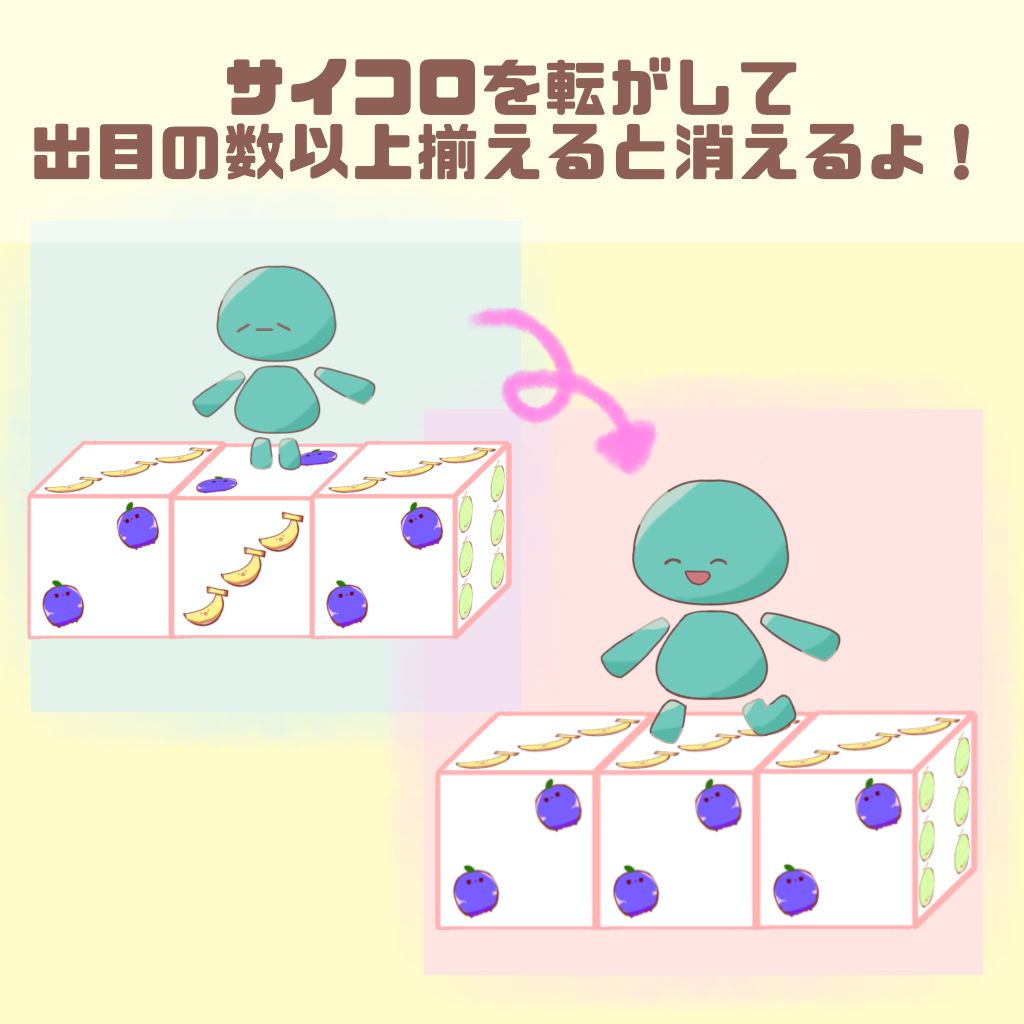
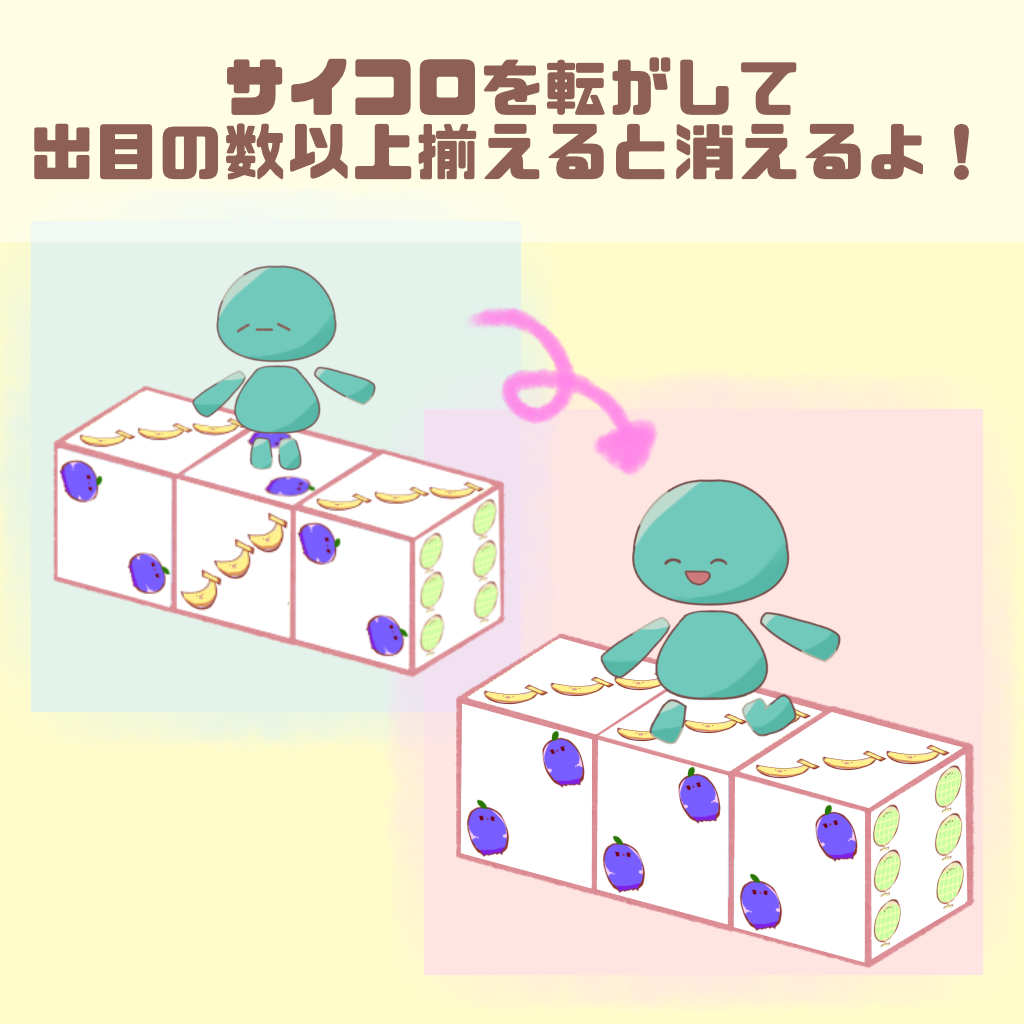
少しリファクタリング

Changed region(s): [[0.0, 0.375, 0.9688, 0.9375]]

diff --git a/source/game/scene/stagecreate_scene.cpp b/source/game/scene/stagecreate_scene.cpp
@@ -17,10 +17,10 @@
 #include	"../../application.h"
 #include	"../../system/dx11/DX11util.h"
 #include	"../../system/util/XAudio2.h"
-#include <stdio.h>
-#include <string.h>
-using namespace Dix;
+#include	<stdio.h>
+#include	<string.h>
 
+using namespace Dix;
 
 enum {
 	ePlayer,
@@ -243,6 +243,7 @@ void StageCreateScene::StageDataLoad()
 		DiceManager::GetInstance()->DataCreate();
 		mViewObjList[eDiceM]->Init();
 		mStage->Init();
+		mStage->CameraUpdate();
 		mViewObjList[ePlayer]->GetComponent<Component::MapPos>()->SetMapPosMove(mStageData->mPlayerPos);
 	}
 }
